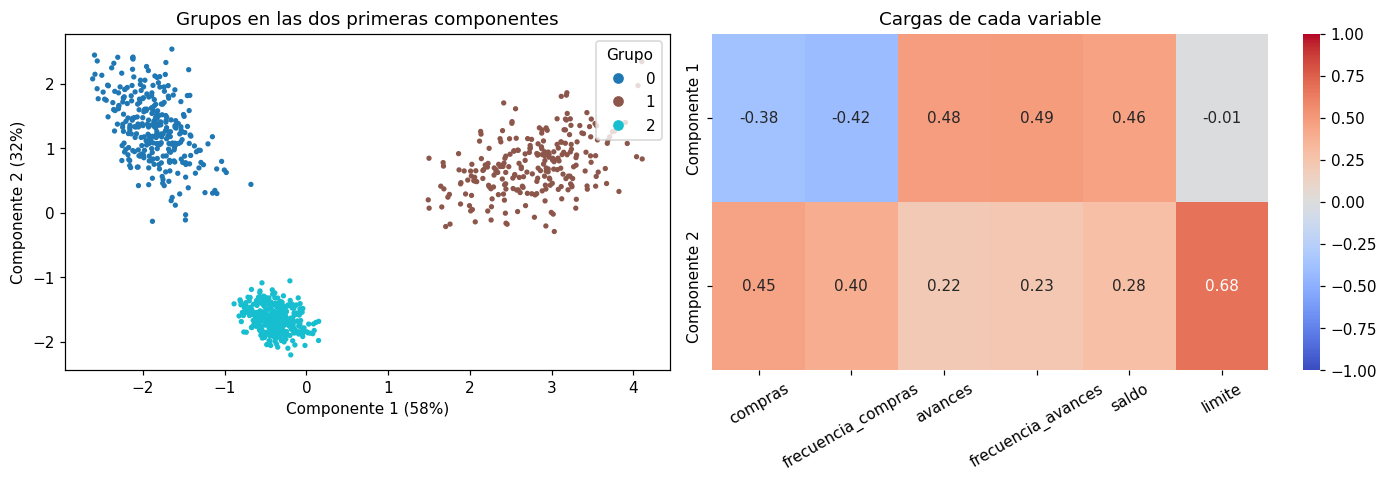
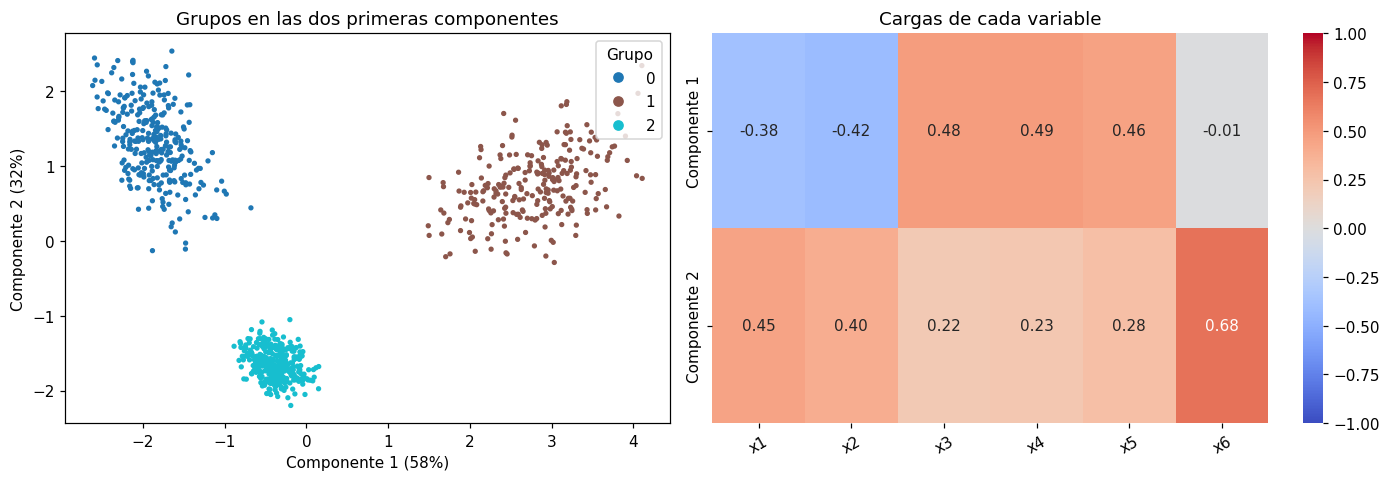
PCA: ejemplo genérico con variables x1 a x6

diff --git a/docs/ayudas/pca.md b/docs/ayudas/pca.md
@@ -41,30 +41,30 @@ la combinación lineal. Las cargas permiten darle un significado a cada eje:
   de signo contrario se oponen. Un registro con un valor alto en la componente tiene valores
   altos en las variables de carga positiva y bajos en las de carga negativa.
 - **Nombre.** Con las variables que más pesan, describa cada componente con una frase, por
-  ejemplo, «uso de avances frente a compras». El signo global de una componente es arbitrario:
+  ejemplo, «valores altos de x3 y x4 frente a valores altos de x1». El signo global de una componente es arbitrario:
   invertir todas sus cargas no cambia su significado.
 
 ## Ejemplo del gráfico
 
-Gráfico de una agrupación en tres grupos de un conjunto de datos sintético de clientes de tarjetas
-de crédito, con seis variables. A la izquierda, los clientes en las dos primeras componentes; a
-la derecha, las cargas de cada variable:
+Gráfico de una agrupación en tres grupos de un conjunto de datos sintético con seis variables,
+`x1` a `x6`. A la izquierda, los registros en las dos primeras componentes; a la derecha, las
+cargas de cada variable:
 
-![A la izquierda, tres grupos bien separados en el plano de las dos primeras componentes; a la derecha, un mapa de calor con las cargas de seis variables en cada componente](../assets/img/ayudas/pca.png)
+![A la izquierda, tres grupos bien separados en el plano de las dos primeras componentes; a la derecha, un mapa de calor con las cargas de las variables x1 a x6 en cada componente](../assets/img/ayudas/pca.png)
 
 - **Cuánta información muestra.** Las dos componentes explican el 58 % y el 32 % de la variación,
   un 90 % en total: el gráfico representa bien los datos.
-- **Componente 1: avances frente a compras.** Tiene cargas positivas en `avances`,
-  `frecuencia_avances` y `saldo` (cerca de 0,47) y negativas en `compras` y `frecuencia_compras`
-  (cerca de −0,40). A la derecha del gráfico están los clientes que usan avances en efectivo y
-  mantienen saldo alto; a la izquierda, los que compran con frecuencia. `limite` casi no influye
-  (carga −0,01).
-- **Componente 2: tamaño de la cuenta.** Todas sus cargas son positivas y la mayor es la de
-  `limite` (0,68): arriba están los clientes con más límite y más actividad en general.
-- **Lectura de los grupos.** El grupo 0 (arriba a la izquierda) son compradores frecuentes con
-  límite alto; el grupo 1 (a la derecha), usuarios de avances en efectivo; el grupo 2 (abajo), clientes
-  con poco límite y poca actividad. Los tres grupos ocupan zonas distintas, así que están bien
-  separados.
+- **Componente 1: `x3`, `x4` y `x5` frente a `x1` y `x2`.** Tiene cargas positivas en `x3`, `x4` y
+  `x5` (cerca de 0,47) y negativas en `x1` y `x2` (cerca de −0,40). Los registros a la derecha del
+  gráfico tienen valores altos en `x3`, `x4` y `x5` y bajos en `x1` y `x2`; los de la izquierda,
+  lo contrario. `x6` casi no influye en esta componente (carga −0,01).
+- **Componente 2: nivel general, sobre todo de `x6`.** Todas sus cargas son positivas y la mayor
+  es la de `x6` (0,68): los registros de arriba tienen valores altos en casi todas las variables,
+  en especial en `x6`, y los de abajo, valores bajos.
+- **Lectura de los grupos.** El grupo 0 (arriba a la izquierda) tiene valores altos en `x1`, `x2`
+  y `x6`; el grupo 1 (a la derecha), valores altos en `x3`, `x4` y `x5`; el grupo 2 (abajo),
+  valores bajos en general, sobre todo en `x6`. Los tres grupos ocupan zonas distintas, así que
+  están bien separados.
 
 ## Código: graficar los grupos en dos dimensiones
 
